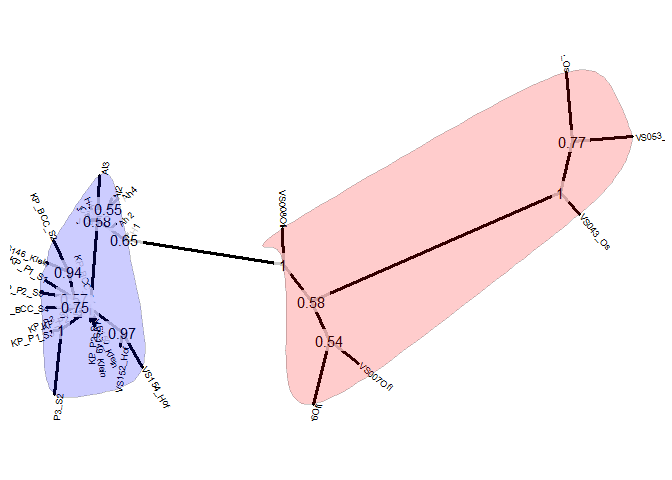
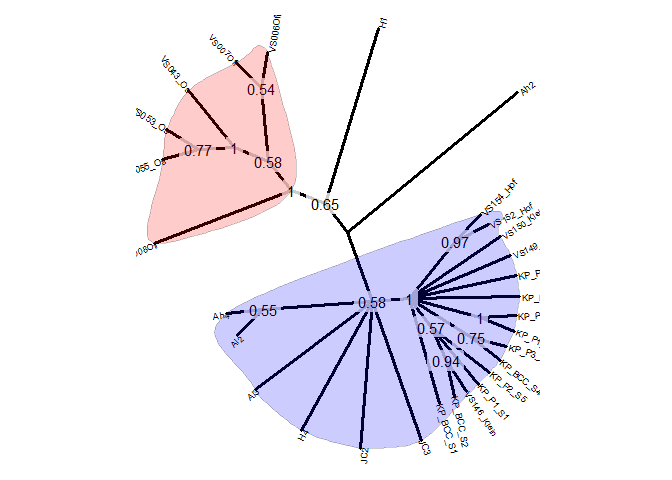
Add files via upload

diff --git a/Tutorial_5/Tut5_ISSR.md b/Tutorial_5/Tut5_ISSR.md
@@ -829,7 +829,7 @@ Let’s read the tree into R and plot with ggtree:
 ``` r
 issr.tree = treeio::read.mrbayes("https://raw.githubusercontent.com/CJMvS/CBC_Tutorials/master/Tutorial_5/MrBayes/infile.nex.con_mrbayes_ISSR_tree.tre")
 
-issr.tree.plot = issr.tree %>% ggtree(., color = "black", layout="unrooted",  lwd=1.2) +
+issr.tree.plot = issr.tree %>% ggtree(., color = "black", layout="unrooted", branch.length = 'none', lwd=1.2) +
   geom_tiplab(size=2.5, color="black", font = 1) +
   geom_label2(aes(subset=!isTip, label=round(as.numeric(prob),2)), size=4, color="black", alpha=0.8, label.size = 0) +  # posterior probs. label.size = 0 removes the border around the labels 
   geom_hilight(node=37, fill="blue", alpha=0.2) +
@@ -838,11 +838,9 @@ issr.tree.plot = issr.tree %>% ggtree(., color = "black", layout="unrooted",  lw
 
     ## "daylight" method was used as default layout for unrooted tree.
 
-    ## Average angle change [1] 0.335991688987995
+    ## Average angle change [1] 0.158867904074621
 
-    ## Average angle change [2] 0.212104095628462
-
-    ## Average angle change [3] 0.0239930789476337
+    ## Average angle change [2] 0.0473850505491631
 
 ``` r
 issr.tree.plot
@@ -912,7 +910,7 @@ run](https://github.com/CJMvS/CBC_Tutorials/blob/master/Tutorial_5/MrBayes%20Com
 ``` r
 combo.tree = treeio::read.mrbayes("https://raw.githubusercontent.com/CJMvS/CBC_Tutorials/master/Tutorial_5/MrBayes%20Combo/ISSR%2B12S_infile.nex.con.tre")
 
-combo.tree.plot = combo.tree %>% ggtree(., color = "black", layout="unrooted", branch.length = 'none',  lwd=1.2) + # include branch lengths
+combo.tree.plot = combo.tree %>% ggtree(., color = "black", layout="unrooted", branch.length = 'none',lwd=1.2) + # include branch lengths
   geom_tiplab(size=3, color="black", font = 1) +
   geom_label2(aes(subset=!isTip, label=round(as.numeric(prob),2)), size=4, color="black", alpha=0.8, label.size = 0) +  # posterior probs. label.size = 0 removes the border around the labels 
   geom_hilight(node=46, fill="red", alpha=0.2) 
